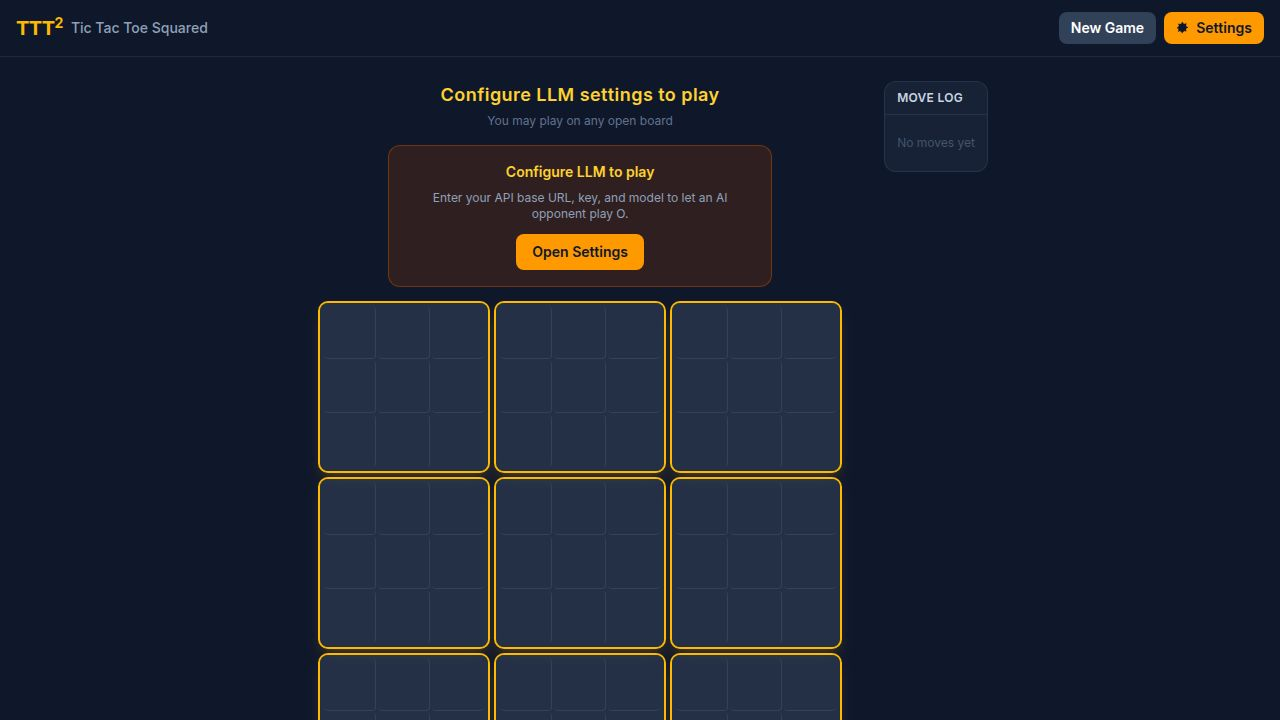
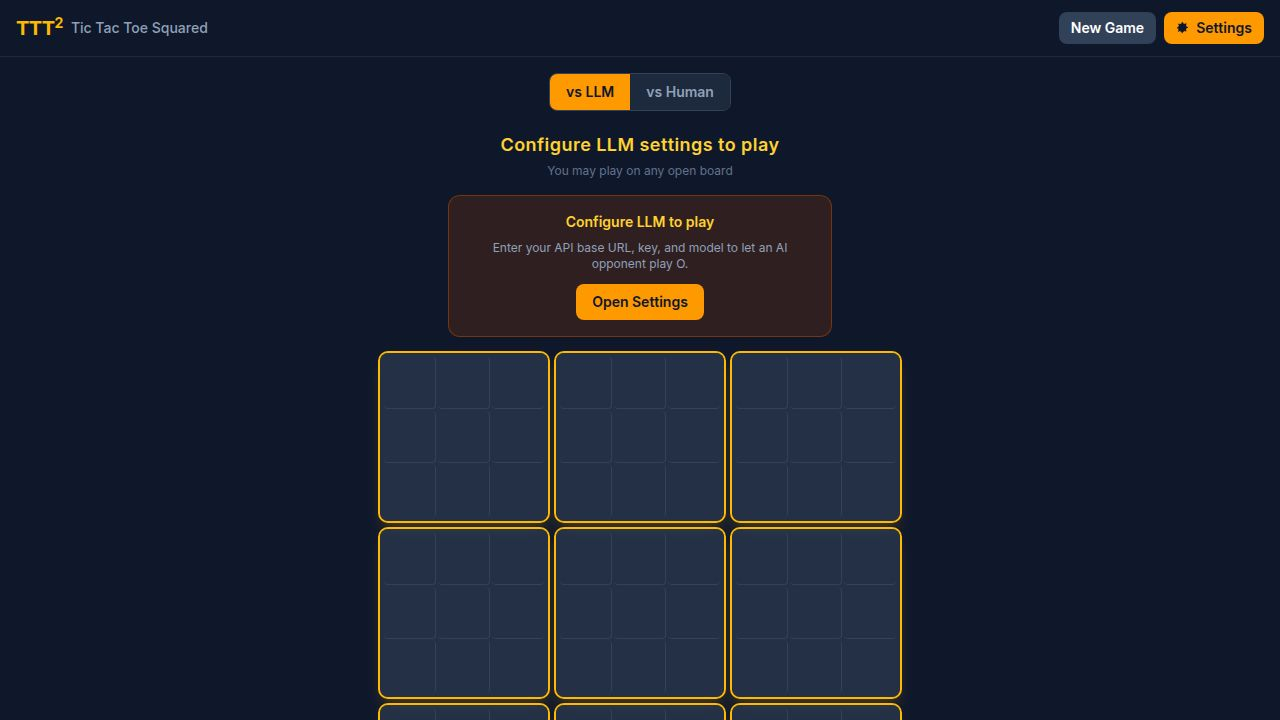
feat: add local two-player (vs Human) mode to TTT Squared
## Original task
Let two people play against each other on the same screen (pass-and-play).

## What changed
- Added a `GameMode` type ("vs-llm" | "vs-human") and `gameMode` state to Game.tsx
- Added a segmented "vs LLM / vs Human" toggle inside the main layout that resets the board on switch
- In vs Human mode: both X and O moves are handled by human clicks (no LLM calls)
- In vs LLM mode: unchanged behavior — X is human, O is the LLM
- The Settings button is only rendered in vs LLM mode
- The "Configure LLM to play" banner is only shown in vs LLM mode
- The SettingsPanel component is only mounted in vs LLM mode
- The handleHumanMove guard allows O to click in vs Human mode (and records moves for both players)
- The LLM useEffect only fires when gameMode === "vs-llm"
- The legend labels X/O as "Player 1"/"Player 2" in vs Human mode
- Free-move text updated to reflect mode context
- StatusBar receives llmConfigured=true in vs Human mode

## Rebase conflict resolution
- Merged with incoming move history + history-viewing feature (HEAD had MoveHistory sidebar, stateRef,
  replayStates, viewingIndex, displayedState)
- handleHumanMove: combined isViewing guard + move history recording (HEAD) with gameMode guard (mine);
  records moves for both X and O in vs-human mode
- isHumanTurn: combined isViewing check (HEAD) with gameMode check (mine)
- Main layout: kept HEAD's two-column layout with MoveHistory sidebar; inserted mode selector toggle
[…]

Changed region(s): [[0.25, 0.0917, 0.7188, 1.0], [0.6875, 0.1833, 0.7812, 0.2139], [0.6875, 0.1222, 0.75, 0.1528]]

diff --git a/artifacts/ttt-squared/src/pages/Game.tsx b/artifacts/ttt-squared/src/pages/Game.tsx
@@ -10,7 +10,10 @@ import { getLLMMove } from "@/lib/llmService";
 import { loadSettings } from "@/lib/settings";
 import type { LLMSettings } from "@/lib/llmService";
 
+type GameMode = "vs-llm" | "vs-human";
+
 export default function Game() {
+  const [gameMode, setGameMode] = useState<GameMode>("vs-llm");
   const [state, setState] = useState(createInitialState());
   const [settingsOpen, setSettingsOpen] = useState(false);
   const [isWaiting, setIsWaiting] = useState(false);
@@ -53,30 +56,40 @@ export default function Game() {
     setViewingIndex(null);
   }, []);
 
+  const handleModeChange = useCallback((mode: GameMode) => {
+    setGameMode(mode);
+    setState(createInitialState());
+    setIsWaiting(false);
+    setLlmError(null);
+    setMoveHistory([]);
+    setViewingIndex(null);
+  }, []);
+
   const handleHumanMove = useCallback(
     (boardIndex: number, cellIndex: number) => {
       if (isViewing) return;
-      if (isWaiting || state.winner || state.currentPlayer !== "X") return;
+      if (isWaiting || state.winner) return;
+      if (gameMode === "vs-llm" && state.currentPlayer !== "X") return;
       const nextState = applyMove(state, boardIndex, cellIndex);
       if (nextState === state) return;
       setState(nextState);
-      setMoveHistory((prev) => [...prev, { player: "X", boardIndex, cellIndex }]);
+      setMoveHistory((prev) => [...prev, { player: state.currentPlayer, boardIndex, cellIndex }]);
       setLlmError(null);
     },
-    [isViewing, isWaiting, state]
+    [isViewing, isWaiting, state, gameMode]
   );
 
   useEffect(() => {
     if (
+      gameMode === "vs-llm" &&
       state.currentPlayer === "O" &&
       !state.winner &&
       !isWaiting &&
       llmConfigured
     ) {
       setIsWaiting(true);
-      const currentState = state;
       const currentSettings = settings;
-      getLLMMove(currentState, currentSettings)
+      getLLMMove(stateRef.current, currentSettings)
         .then((move) => {
           if (!move) return;
           const prev = stateRef.current;
@@ -98,10 +111,12 @@ export default function Game() {
           setIsWaiting(false);
         });
     }
-  }, [state.currentPlayer, state.winner, llmConfigured, settings]);
+  }, [state.currentPlayer, state.winner, gameMode, llmConfigured, settings]);
 
   const isHumanTurn =
-    state.currentPlayer === "X" && !state.winner && !isViewing;
+    gameMode === "vs-human"
+      ? !state.winner && !isViewing
+      : state.currentPlayer === "X" && !state.winner && !isViewing;
 
   return (
     <div className="min-h-screen bg-slate-900 text-white flex flex-col overflow-hidden">
@@ -121,33 +136,58 @@ export default function Game() {
           >
             New Game
           </button>
-          <button
-            onClick={() => setSettingsOpen(true)}
-            className="px-3 py-1.5 text-sm font-semibold rounded-lg bg-amber-500 hover:bg-amber-400 text-slate-900 transition-colors flex items-center gap-1.5"
-          >
-            <svg width="14" height="14" viewBox="0 0 16 16" fill="currentColor">
-              <path
-                fillRule="evenodd"
-                d="M8 10.5a2.5 2.5 0 1 0 0-5 2.5 2.5 0 0 0 0 5ZM6.5 8a1.5 1.5 0 1 1 3 0 1.5 1.5 0 0 1-3 0Z"
-              />
-              <path
-                fillRule="evenodd"
-                d="M6.5 1.75a.75.75 0 0 1 1.5 0v.82a5.51 5.51 0 0 1 2.18.905l.58-.58a.75.75 0 1 1 1.06 1.06l-.58.58A5.51 5.51 0 0 1 12.14 6.5h.82a.75.75 0 0 1 0 1.5h-.82a5.51 5.51 0 0 1-.905 2.18l.58.58a.75.75 0 0 1-1.06 1.06l-.58-.58A5.51 5.51 0 0 1 7.86 12.43v.82a.75.75 0 0 1-1.5 0v-.82a5.51 5.51 0 0 1-2.18-.905l-.58.58a.75.75 0 1 1-1.06-1.06l.58-.58A5.51 5.51 0 0 1 2.43 8.5H1.75a.75.75 0 0 1 0-1.5h.68a5.51 5.51 0 0 1 .905-2.18l-.58-.58a.75.75 0 0 1 1.06-1.06l.58.58A5.51 5.51 0 0 1 6.5 2.57V1.75Z"
-              />
-            </svg>
-            Settings
-          </button>
+          {gameMode === "vs-llm" && (
+            <button
+              onClick={() => setSettingsOpen(true)}
+              className="px-3 py-1.5 text-sm font-semibold rounded-lg bg-amber-500 hover:bg-amber-400 text-slate-900 transition-colors flex items-center gap-1.5"
+            >
+              <svg width="14" height="14" viewBox="0 0 16 16" fill="currentColor">
+                <path
+                  fillRule="evenodd"
+                  d="M8 10.5a2.5 2.5 0 1 0 0-5 2.5 2.5 0 0 0 0 5ZM6.5 8a1.5 1.5 0 1 1 3 0 1.5 1.5 0 0 1-3 0Z"
+                />
+                <path
+                  fillRule="evenodd"
+                  d="M6.5 1.75a.75.75 0 0 1 1.5 0v.82a5.51 5.51 0 0 1 2.18.905l.58-.58a.75.75 0 1 1 1.06 1.06l-.58.58A5.51 5.51 0 0 1 12.14 6.5h.82a.75.75 0 0 1 0 1.5h-.82a5.51 5.51 0 0 1-.905 2.18l.58.58a.75.75 0 0 1-1.06 1.06l-.58-.58A5.51 5.51 0 0 1 7.86 12.43v.82a.75.75 0 0 1-1.5 0v-.82a5.51 5.51 0 0 1-2.18-.905l-.58.58a.75.75 0 1 1-1.06-1.06l.58-.58A5.51 5.51 0 0 1 2.43 8.5H1.75a.75.75 0 0 1 0-1.5h.68a5.51 5.51 0 0 1 .905-2.18l-.58-.58a.75.75 0 0 1 1.06-1.06l.58.58A5.51 5.51 0 0 1 6.5 2.57V1.75Z"
+                />
+              </svg>
+              Settings
+            </button>
+          )}
         </div>
       </header>
 
       <main className="flex-1 flex overflow-hidden">
         <div className="flex-1 flex gap-4 p-4 overflow-hidden items-start justify-center">
           <div className="flex flex-col items-center gap-4 overflow-y-auto flex-1 min-w-0 max-w-xl">
-            <div className="space-y-1 text-center w-full mt-2">
+            <div className="flex rounded-lg overflow-hidden border border-slate-700 shrink-0">
+              <button
+                onClick={() => handleModeChange("vs-llm")}
+                className={`px-4 py-2 text-sm font-semibold transition-colors ${
+                  gameMode === "vs-llm"
+                    ? "bg-amber-500 text-slate-900"
+                    : "bg-slate-800 text-slate-400 hover:text-white"
+                }`}
+              >
+                vs LLM
+              </button>
+              <button
+                onClick={() => handleModeChange("vs-human")}
+                className={`px-4 py-2 text-sm font-semibold transition-colors ${
+                  gameMode === "vs-human"
+                    ? "bg-amber-500 text-slate-900"
+                    : "bg-slate-800 text-slate-400 hover:text-white"
+                }`}
+              >
+                vs Human
+              </button>
+            </div>
+
+            <div className="space-y-1 text-center w-full">
               <StatusBar
                 state={isViewing ? displayedState : state}
                 isWaiting={isViewing ? false : isWaiting}
-                llmConfigured={llmConfigured}
+                llmConfigured={gameMode === "vs-llm" ? llmConfigured : true}
               />
 
               {isViewing && (
@@ -168,7 +208,9 @@ export default function Game() {
 
               {!isViewing && !displayedState.winner && displayedState.activeBoard === null && !isWaiting && (
                 <p className="text-xs text-slate-500">
-                  {displayedState.currentPlayer === "X"
+                  {gameMode === "vs-human"
+                    ? `${displayedState.currentPlayer} may play on any open board`
+                    : displayedState.currentPlayer === "X"
                     ? "You may play on any open board"
                     : "LLM may play on any open board"}
                 </p>
@@ -181,7 +223,7 @@ export default function Game() {
               </div>
             )}
 
-            {!llmConfigured && !settingsOpen && (
+            {gameMode === "vs-llm" && !llmConfigured && !settingsOpen && (
               <motion.div
                 initial={{ opacity: 0, y: 8 }}
                 animate={{ opacity: 1, y: 0 }}
@@ -231,11 +273,11 @@ export default function Game() {
               </span>
               <span className="flex items-center gap-1.5">
                 <span className="text-sky-400 font-bold">X</span>
-                You
+                {gameMode === "vs-human" ? "Player 1" : "You"}
               </span>
               <span className="flex items-center gap-1.5">
                 <span className="text-rose-400 font-bold">O</span>
-                LLM
+                {gameMode === "vs-human" ? "Player 2" : "LLM"}
               </span>
             </div>
           </div>
@@ -260,10 +302,12 @@ export default function Game() {
         </div>
       </main>
 
-      <SettingsPanel
-        open={settingsOpen}
-        onClose={handleSettingsClose}
-      />
+      {gameMode === "vs-llm" && (
+        <SettingsPanel
+          open={settingsOpen}
+          onClose={handleSettingsClose}
+        />
+      )}
     </div>
   );
 }
